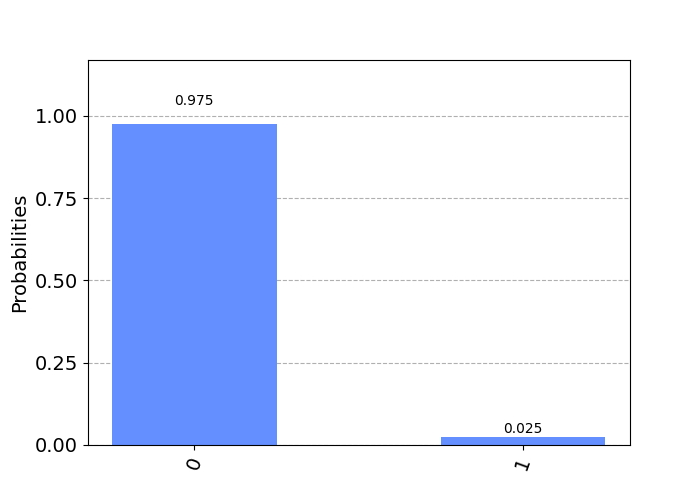
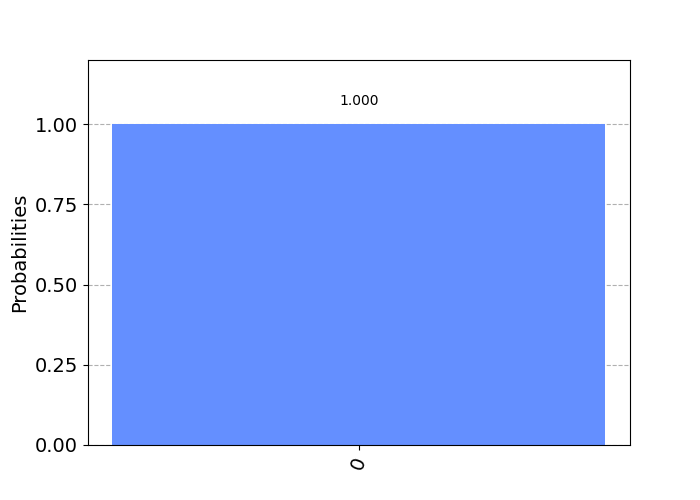
Changed to simulated quantum computer (with noise)

diff --git a/templates/quantum_computer.html b/templates/quantum_computer.html
@@ -31,10 +31,10 @@
         <input type="radio" id="Flip" name="FlipDecision" value="Flip">
         <label for="Flip">Flip</label><br>
         <input type="radio" id="IBMQ" name="BackendDecision" value="IBMQ">
-        <label for="IBMQ">IBM Quantum Computer</label>
+        <label for="IBMQ">IBM Quantum Computer (Simulated but behaves like real one)</label>
         <input type="radio" id="Simulator" name="BackendDecision" value="Simulator">
         <label for="Simulator">Quantum Simulator</label><br>
-        <input type="submit" value="Submit">
+        <input type="submit" value="Submit" class="SubmitButton">
     </form>
     <h2 style="margin-left: 5em;">Attention: This may possibly take a while.</h2>
 </div>

diff --git a/static/quantum_computer.css b/static/quantum_computer.css
@@ -36,3 +36,11 @@
 .ResultExplanation {
     margin: 1em;
 }
+
+.SubmitButton {
+    width: 10em;
+    height: 5em;
+    margin: 0.5em;
+    border-radius: 1.5em 1.5em 1.5em 1.5em;
+    font-size: 1em;
+}

diff --git a/app.py b/app.py
@@ -8,6 +8,7 @@ from qiskit import ClassicalRegister, QuantumCircuit, QuantumRegister
 from qiskit import execute, BasicAer, IBMQ
 import qiskit
 from qiskit.tools.visualization import plot_histogram
+from qiskit.test.mock import FakeVigo
 
 app = Flask(__name__, static_url_path="")
 app.secret_key = b"eudjenasjeenendje"
@@ -58,6 +59,7 @@ def quantum_computer():
         qc.h(q[0])
         qc.measure(q, c)
         if request.form["BackendDecision"] == "IBMQ":
+            '''
             try:
                 provider = IBMQ.enable_account(environ["TOKEN"])
             except Exception as e:
@@ -75,15 +77,13 @@ def quantum_computer():
                 provider.backend.ibmq_santiago
             ]
             backend = qiskit.providers.ibmq.least_busy(backend_list)
+            '''
+            backend = FakeVigo()
         else:
             backend = BasicAer.get_backend("qasm_simulator")
         print(backend)
 
         job = execute(qc, backend, shots=200)
-        id = job.job_id()
-
-        if request.form["BackendDecision"] == "IBMQ":
-            return render_template("rediriction.html", url="https://quantum-computing.ibm.com/jobs/{}".format(id))
 
         result = job.result()
         counts = result.get_counts(qc)
